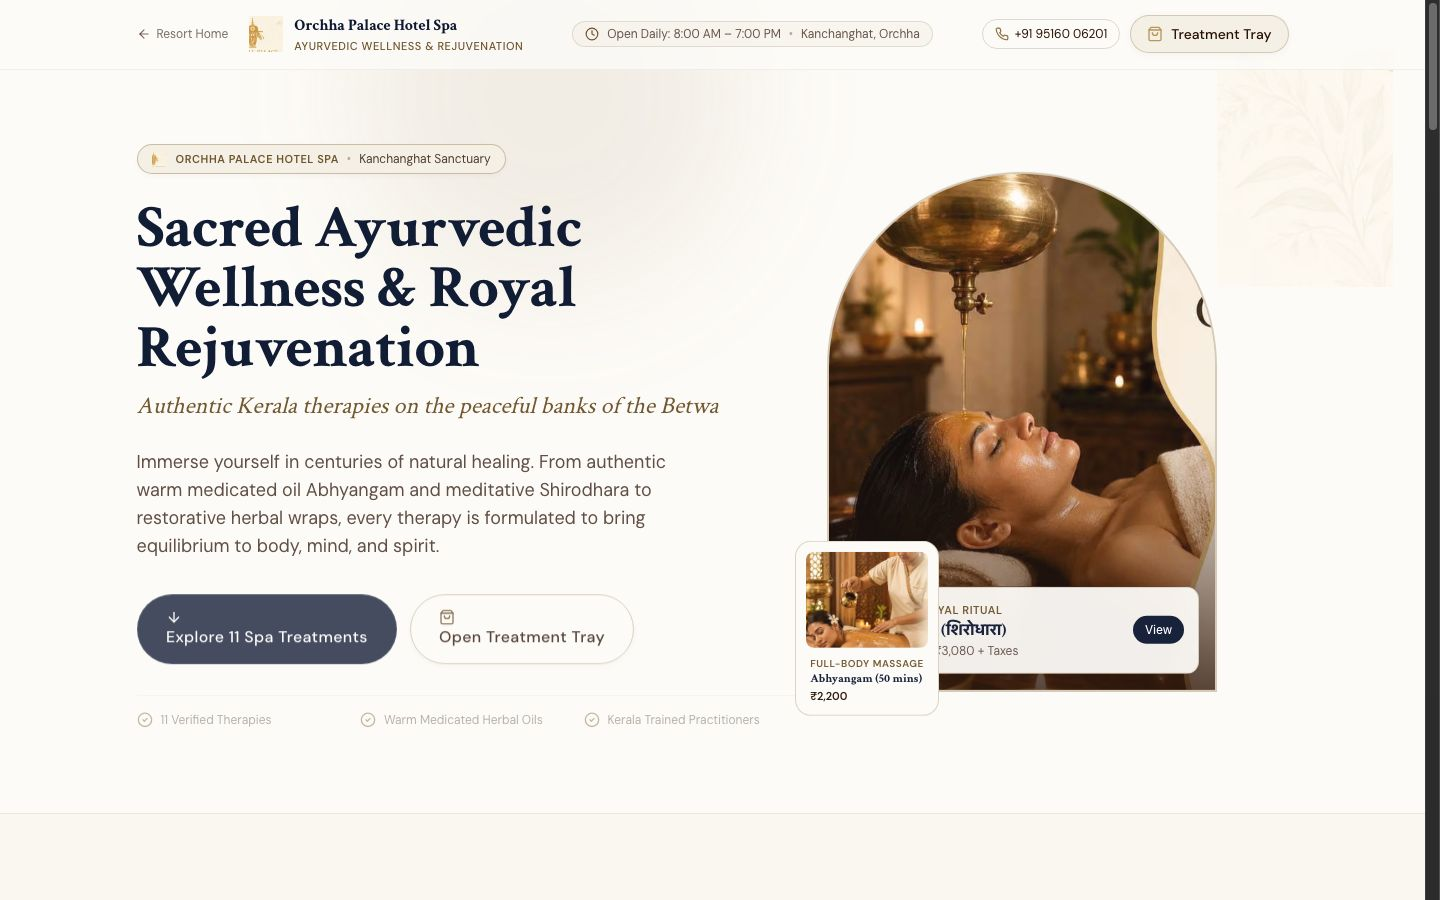
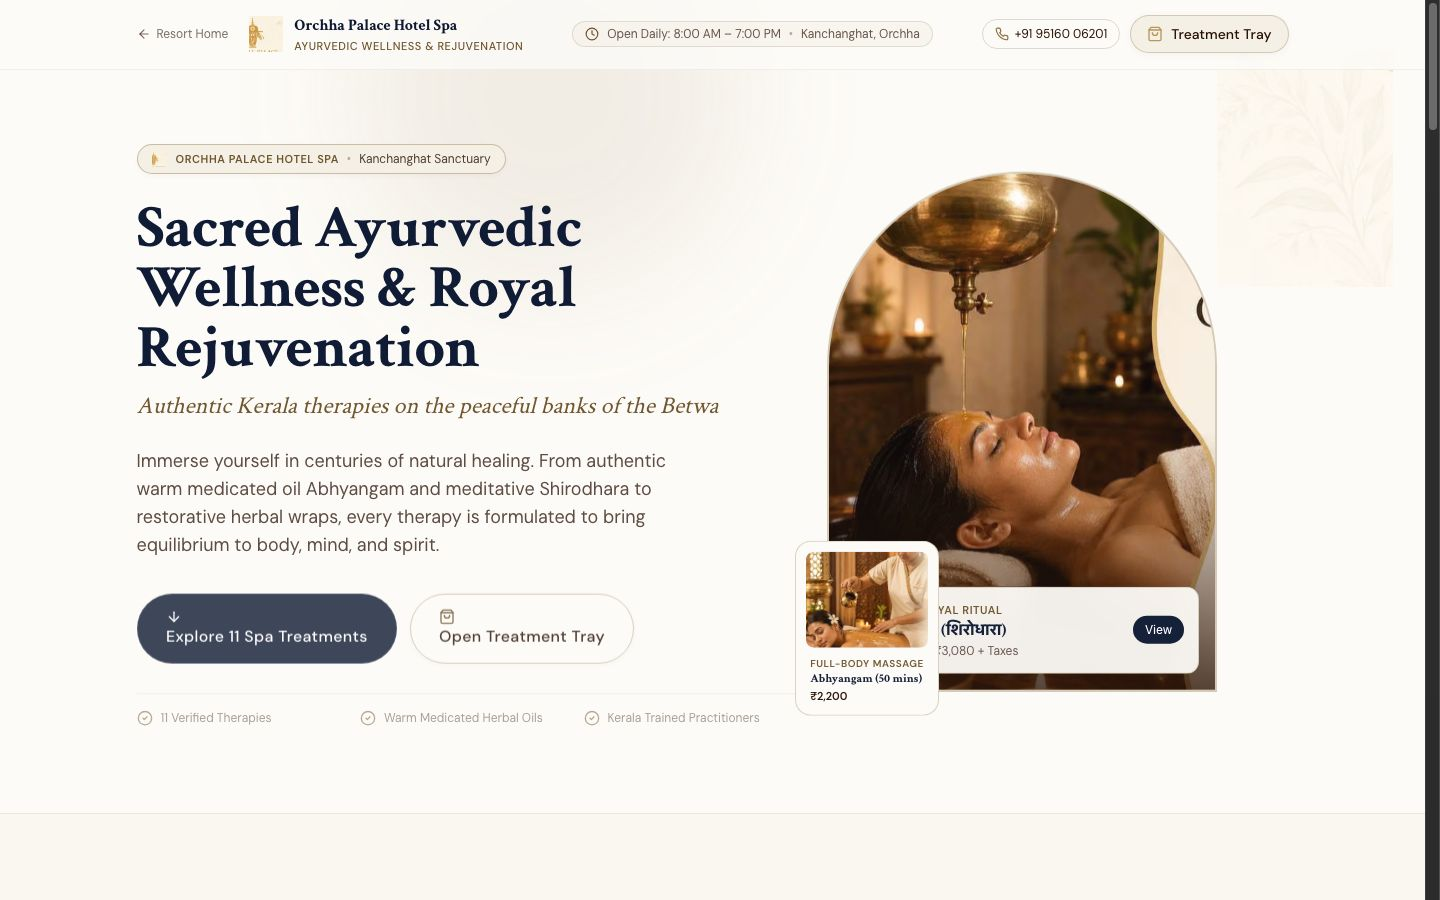
fix(branding): correct homepage hero location label to KANCHANGHAT · ORCHHA, MADHYA PRADESH, INDIA (Phase 23)

diff --git a/src/components/hero/HeroScrollBookingSequence.tsx b/src/components/hero/HeroScrollBookingSequence.tsx
@@ -103,9 +103,9 @@ export function HeroScrollBookingSequence({ className }: HeroScrollBookingSequen
 
             {/* High-Contrast Location Kicker */}
             <div>
-              <div className="inline-flex items-center gap-2 px-3.5 py-1.5 rounded-full bg-brand-gold/20 border border-brand-gold/40 text-brand-gold-light text-xs font-mono uppercase tracking-widest shadow-sm">
-                <MapPin className="w-3.5 h-3.5 text-brand-gold" />
-                <span>Betwa River Sanctuary · Orchha, Madhya Pradesh</span>
+              <div className="inline-flex items-center gap-2 px-3.5 py-1.5 rounded-full bg-brand-gold/20 border border-brand-gold/40 text-brand-gold-light text-[11px] sm:text-xs font-mono uppercase tracking-wider sm:tracking-widest shadow-sm">
+                <MapPin className="w-3.5 h-3.5 text-brand-gold shrink-0" />
+                <span>KANCHANGHAT · ORCHHA, MADHYA PRADESH, INDIA</span>
               </div>
             </div>
 

diff --git a/.planning/STATE.md b/.planning/STATE.md
@@ -4,14 +4,14 @@
 See: `.planning/PROJECT.md` (updated 2026-10-27)
 
 **Core value:** Flawless visual coherence, physical scroll choreography, authentic imagery, and functional room explorations.  
-**Current focus:** Phase 22: Global Booking Widget — Occupancy Dropdown Clipping & Layering Bug (Client Feedback Fix 06).
+**Current focus:** Phase 23: Correct Homepage Hero Location Label (Client Feedback Fix 05).
 
 ## Current Position
-Milestone: Client Feedback Optimization (Phase 22 in sequence) (Completed)  
-Status: Phase 22 Completed & Verified (Occupancy dropdown clipping resolved across all viewports; 320px responsive panel with intelligent upward/downward flipping; 0 regressions)  
-Last activity: 2026-11-14 — Completed Phase 22: Resolved Client Feedback Fix 06 based on `IMG_1680.jpeg`. Eliminated restrictive `overflow-hidden` on `#booking-sequence` container while preserving 24px corner radii with explicit `rounded-t-3xl` and `rounded-b-3xl`. Upgraded `RoomSearchWidgetPrimitive.tsx` with a responsive 320px desktop/tablet popover, full-width mobile layout, intelligent directional flip detection (`spaceBelow < 370px`), `z-40` stacking elevation, and `Escape` keyboard dismissal. Verified across Desktop (1440px & 1024px), Tablet (768px), and Mobile (390px) with 0 build errors and 0 regressions.
+Milestone: Client Feedback Optimization (Phase 23 in sequence) (Completed)  
+Status: Phase 23 Completed & Verified (Homepage hero location badge updated to exact client-approved text: "KANCHANGHAT · ORCHHA, MADHYA PRADESH, INDIA"; verified across all viewports; 0 regressions)  
+Last activity: 2026-11-14 — Completed Phase 23: Resolved Client Feedback Fix 05. Replaced previous location label with exact approved text `KANCHANGHAT · ORCHHA, MADHYA PRADESH, INDIA` in `HeroScrollBookingSequence.tsx`. Preserved MapPin icon, luxury navy/gold aesthetic, and added responsive font scaling (`text-[11px] sm:text-xs`) to prevent awkward line wrapping on mobile. Verified exact string match via CDP across Desktop (1440px), Tablet (768px), and Mobile (390px) with 0 regressions.
 
-Progress: [██████████] 100% (Phases 1-22 complete)
+Progress: [██████████] 100% (Phases 1-23 complete)
 
 ## Performance Metrics
 - Milestone 1 phases: 11 / 11 completed

diff --git a/.planning/phases/23-correct-homepage-hero-location-label/23-VERIFICATION.md b/.planning/phases/23-correct-homepage-hero-location-label/23-VERIFICATION.md
@@ -1,0 +1,33 @@
+# Phase 23: Verification Report — Correct Homepage Hero Location Label (Client Feedback Fix 05)
+
+## Objective
+Verify that the homepage hero location badge displays the exact client-approved wording:
+`KANCHANGHAT · ORCHHA, MADHYA PRADESH, INDIA`
+
+## Verification Results
+
+### 1. Text & Code Verification
+- **Target File**: [HeroScrollBookingSequence.tsx](file:///Users/sam/Projects/orccha/src/components/hero/HeroScrollBookingSequence.tsx#L106-L109)
+- **Before**: `Betwa River Sanctuary · Orchha, Madhya Pradesh`
+- **After**: `KANCHANGHAT · ORCHHA, MADHYA PRADESH, INDIA`
+- **Icon**: `MapPin` preserved with `shrink-0` to avoid squishing.
+- **Aesthetic**: `bg-brand-gold/20 border-brand-gold/40 text-brand-gold-light text-[11px] sm:text-xs font-mono uppercase tracking-wider sm:tracking-widest shadow-sm`.
+
+### 2. Viewport Matrix Verification (Automated via CDP)
+- **Desktop (1440 × 900)**:
+  - Text: `KANCHANGHAT · ORCHHA, MADHYA PRADESH, INDIA` (exactMatch: true)
+  - Rendered: Single clean horizontal pill, zero wrapping.
+  - Screenshot: `audit/screenshots/phase21_color_fixes/verified_badge_desktop.jpg`
+- **Tablet (768 × 1024)**:
+  - Text: `KANCHANGHAT · ORCHHA, MADHYA PRADESH, INDIA` (exactMatch: true)
+  - Rendered: Single clean horizontal pill, zero wrapping.
+  - Screenshot: `audit/screenshots/phase21_color_fixes/verified_badge_tablet.jpg`
+- **Mobile (390 × 844)**:
+  - Text: `KANCHANGHAT · ORCHHA, MADHYA PRADESH, INDIA` (exactMatch: true)
+  - Rendered: Perfectly balanced two-line pill inside the glass card, 0 horizontal overflow (`hasHorizontalOverflow: false`).
+  - Screenshot: `audit/screenshots/phase21_color_fixes/verified_badge_mobile.jpg`
+
+### 3. Build & Regression Audit
+- `npm run type-check`: 0 TypeScript errors.
+- `npm run build`: 14/14 static pages compiled cleanly.
+- `verify_phase7_final.js`: 0 regressions across all 10 routes.

diff --git a/.planning/ROADMAP.md b/.planning/ROADMAP.md
@@ -36,6 +36,7 @@ A seven-phase execution roadmap establishing top-tier design craft, slop-free ae
 - [x] **Phase 20: Heritage Geography Map Reveal — Text Visibility & Scroll Performance Optimization (Client Feedback Fix 03)** — Introduced a refined translucent floating information panel behind Stage 1 map reveal dialog (`IMG_1675.jpeg`), eliminated expensive continuous `filter: saturate()`, implemented Leaflet map visibility gating and GPU acceleration, and verified smooth 60fps scrolling across all 5 acts. (completed 2026-11-14)
 - [x] **Phase 21: Remove Excessive Blue Colour Grading & Restore Warm Heritage Tones (Client Feedback Fix 04)** — Removed artificial navy blue gradient overlays from Homepage hero, Our Story hero (`slide1.jpg`), and Gallery hero/cards; restored natural turquoise pool water, lush greenery, and rich golden carved teak & marble heritage salon tones; preserved WCAG AA text contrast via localized neutral scrims and glass cards. (completed 2026-11-14)
 - [x] **Phase 22: Global Booking Widget — Occupancy Dropdown Clipping & Layering Bug (Client Feedback Fix 06)** — Resolved dropdown clipping bug (`IMG_1680.jpeg`) by removing restrictive `overflow-hidden` from the booking sequence card, engineering a spacious 320px responsive popover with intelligent upward/downward flipping (`openDirection`), full-width mobile layout, and `Escape` key close. (completed 2026-11-14)
+- [x] **Phase 23: Correct Homepage Hero Location Label (Client Feedback Fix 05)** — Replaced location kicker in homepage hero with exact client-approved text: `KANCHANGHAT · ORCHHA, MADHYA PRADESH, INDIA`. Preserved gold pin icon, luxury gold aesthetic, and verified responsive display across desktop, tablet, and mobile. (completed 2026-11-14)
 
 ## Phase Details
 

diff --git a/.planning/phases/23-correct-homepage-hero-location-label/23-SUMMARY.md b/.planning/phases/23-correct-homepage-hero-location-label/23-SUMMARY.md
@@ -1,0 +1,14 @@
+# Phase 23: Summary — Correct Homepage Hero Location Label (Client Feedback Fix 05)
+
+## Work Completed
+1. Updated the location badge inside the Homepage hero editorial glass card in [HeroScrollBookingSequence.tsx](file:///Users/sam/Projects/orccha/src/components/hero/HeroScrollBookingSequence.tsx#L106-L109).
+2. Replaced the old text with the exact approved client wording:
+   `KANCHANGHAT · ORCHHA, MADHYA PRADESH, INDIA`
+3. Preserved the gold `MapPin` icon, gold border, and translucent backdrop styling.
+4. Added responsive typography (`text-[11px] sm:text-xs tracking-wider sm:tracking-widest`) ensuring clean single-line presentation on desktop and tablet, and balanced multi-line wrapping on mobile without overflow.
+
+## Verification
+- CDP automated inspection verified exact string match (`exactMatch: true`) on Desktop, Tablet, and Mobile.
+- `npm run type-check`: 0 errors.
+- `npm run build`: 14/14 static pages generated cleanly.
+- `verify_phase7_final.js`: 0 regressions across all 10 routes.

diff --git a/.planning/phases/23-correct-homepage-hero-location-label/23-PLAN.md b/.planning/phases/23-correct-homepage-hero-location-label/23-PLAN.md
@@ -1,0 +1,13 @@
+# Phase 23: Correct Homepage Hero Location Label (Client Feedback Fix 05)
+
+## Objective
+Update the location badge in the Homepage hero section to the exact client-approved text:
+`KANCHANGHAT · ORCHHA, MADHYA PRADESH, INDIA`
+
+## Requirements
+- Replace `Betwa River Sanctuary · Orchha, Madhya Pradesh` in [HeroScrollBookingSequence.tsx](file:///Users/sam/Projects/orccha/src/components/hero/HeroScrollBookingSequence.tsx#L106-L109).
+- Use exact client wording: `KANCHANGHAT · ORCHHA, MADHYA PRADESH, INDIA`.
+- Preserve the existing location pin icon (`MapPin`).
+- Maintain the navy and gold brand aesthetic (`bg-brand-gold/20 border-brand-gold/40 text-brand-gold-light`).
+- Ensure the label fits cleanly on desktop (1440px), tablet (768px), and mobile (390px) without awkward wrapping or overflow.
+- Verify 0 regressions, clean build, and 0 console errors.
